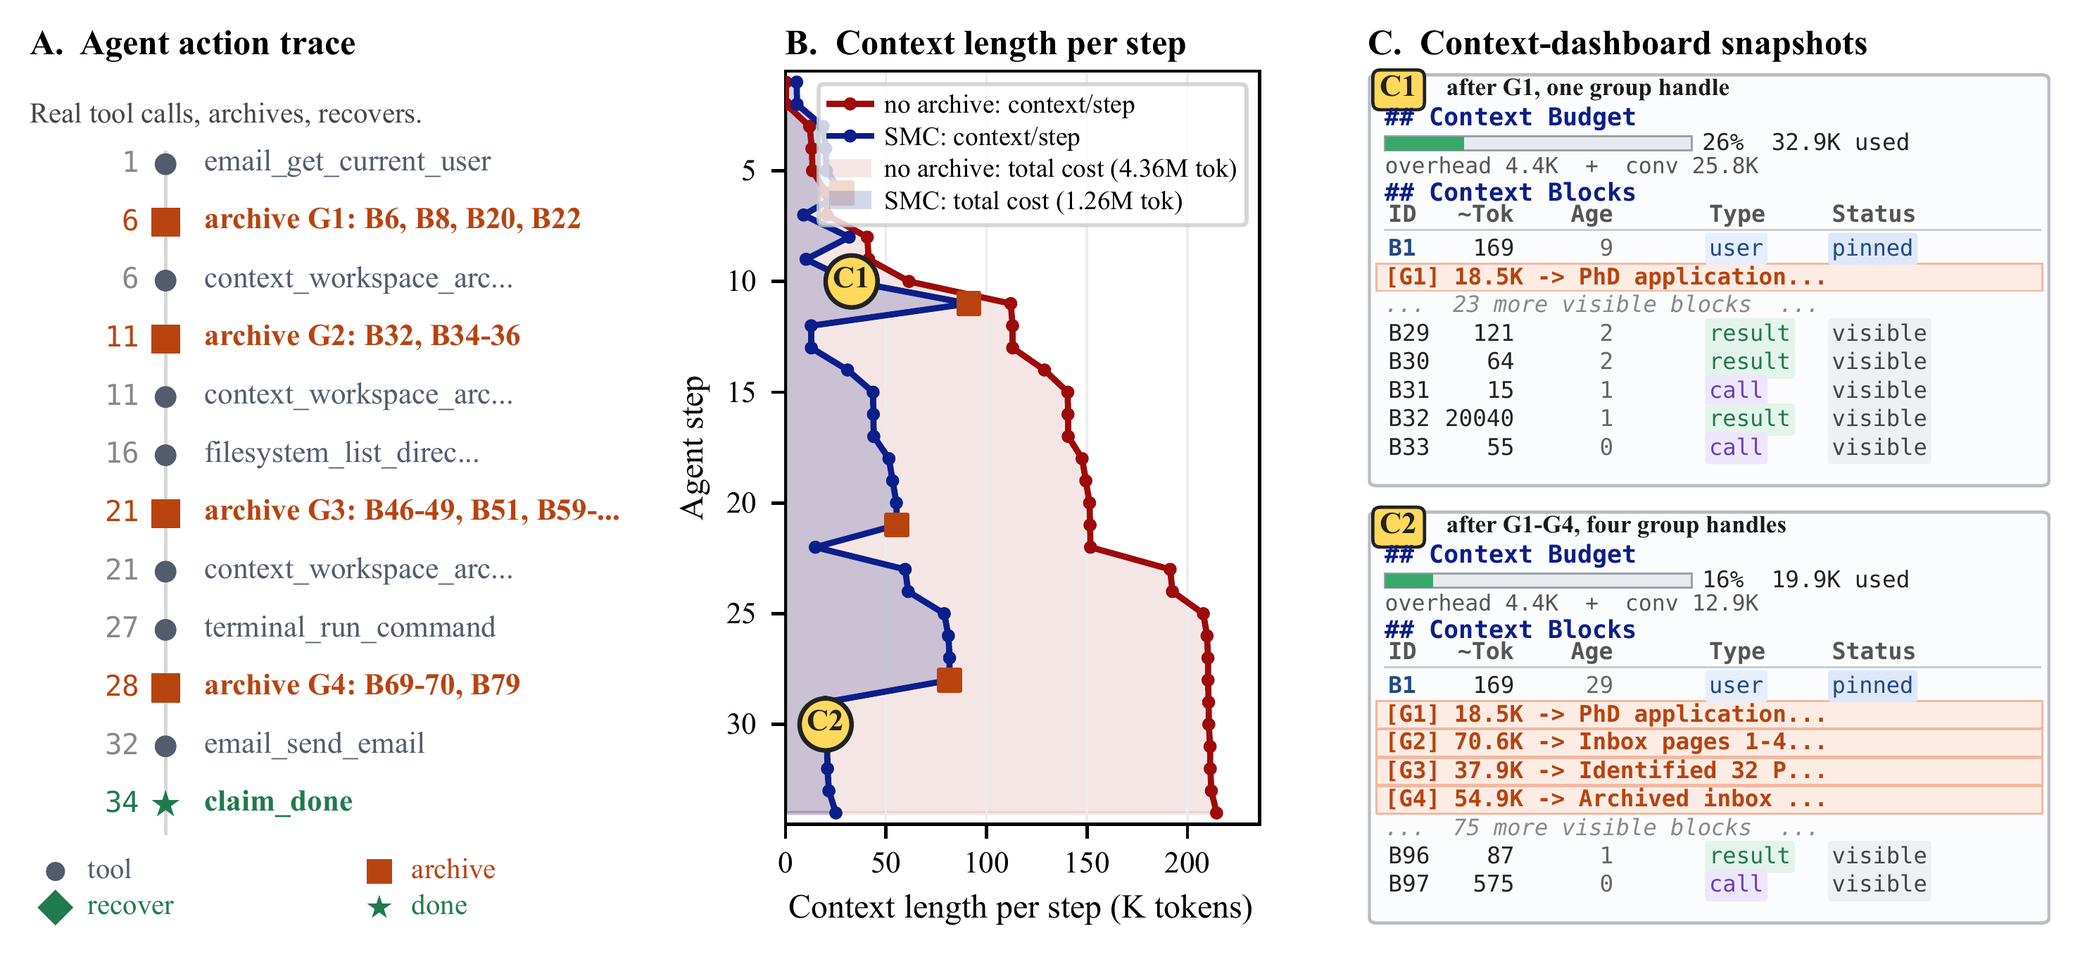
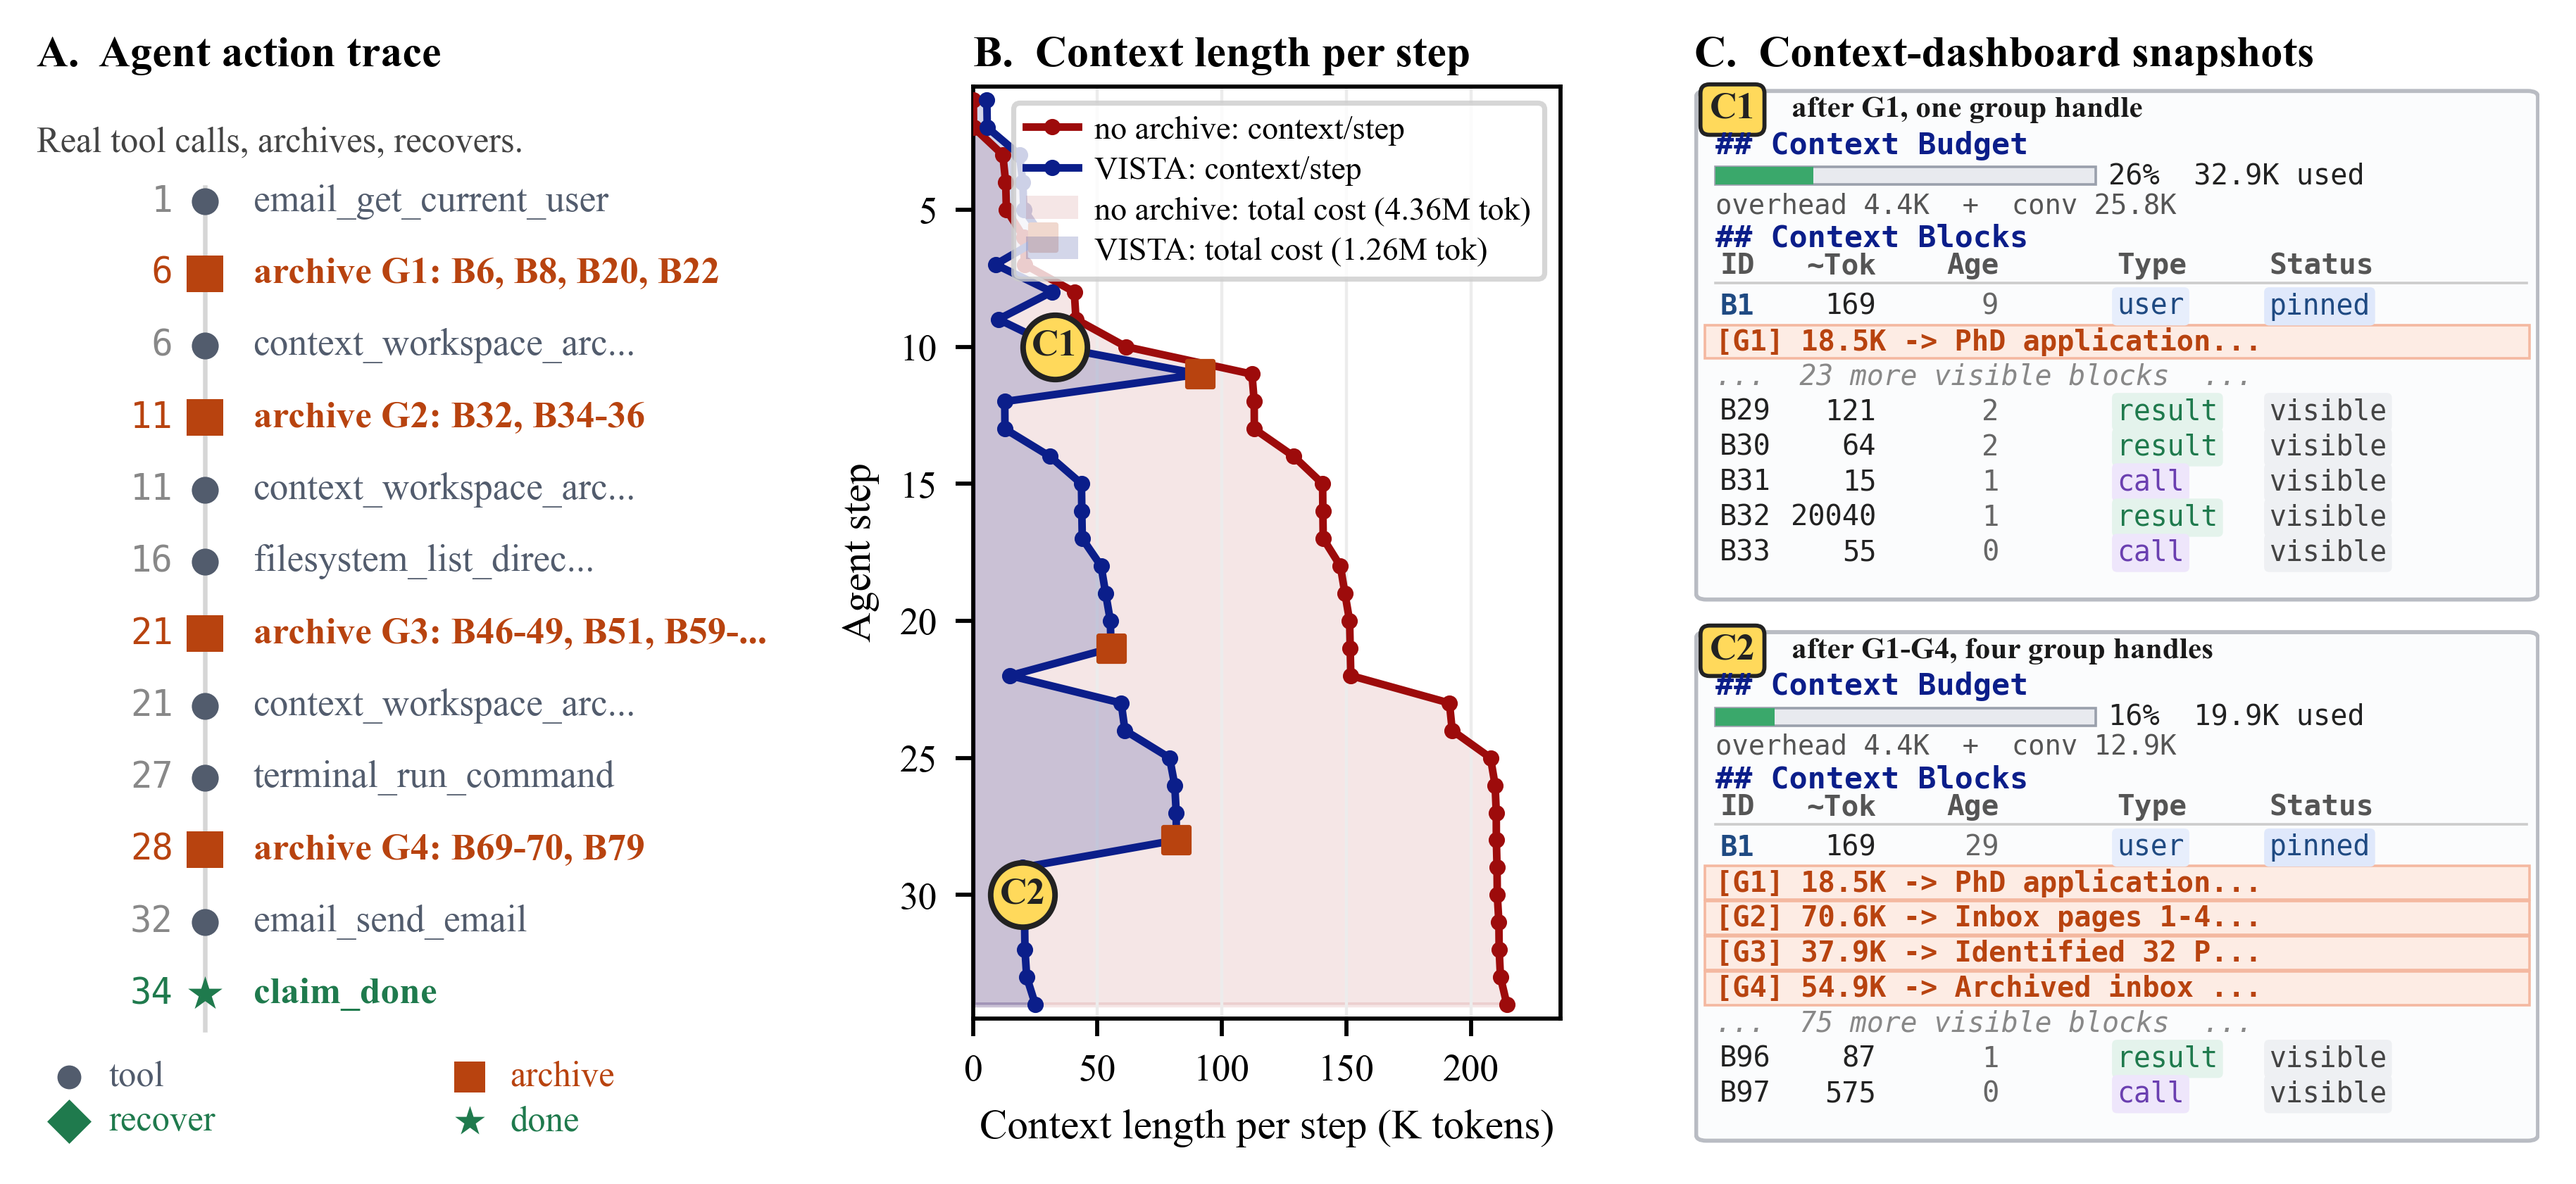
Regenerate case study figure and widen results column

diff --git a/docs/styles.css b/docs/styles.css
@@ -355,7 +355,7 @@ h3 {
 }
 
 .results-figures {
-  grid-template-columns: minmax(0, 1.25fr) minmax(0, 0.75fr);
+  grid-template-columns: minmax(0, 1.45fr) minmax(0, 0.55fr);
   align-items: stretch;
 }
 

diff --git a/styles.css b/styles.css
@@ -355,7 +355,7 @@ h3 {
 }
 
 .results-figures {
-  grid-template-columns: minmax(0, 1.25fr) minmax(0, 0.75fr);
+  grid-template-columns: minmax(0, 1.45fr) minmax(0, 0.55fr);
   align-items: stretch;
 }
 
